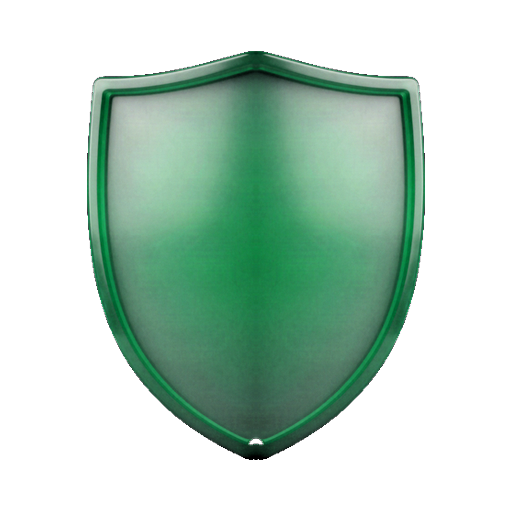
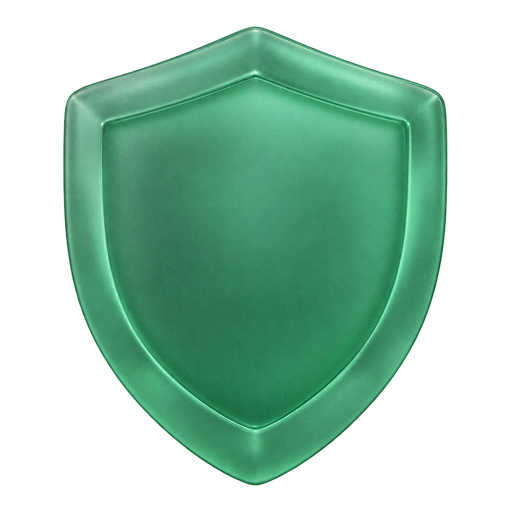
Ikony temat a predmetu: jednotne piskovane sklo, celem, zjednodusene
Sada podle puvodni ikony databaze (Higgsfield, GPT Image 2.5): Python
jako logo Pythonu, matematika +-, chemie banka, hudebni vychova dve
noty, Power BI bez podstavy, mozek z puvodni sady. Velikost predmetu
opticky vyrovnana. Postup a skript v scripts/ikony. V paticce veta,
ze ikony vznikly s pomoci AI. Ikony temat maji spravne sizes pro
tablet a pri omezenem pohybu se pod mysi nezvetsuji.

diff --git a/src/lib/content.ts b/src/lib/content.ts
@@ -1309,6 +1309,8 @@ type Dict = {
     /** Uvozuje odkaz na licenci, proto končí bez tečky. */
     rights: string;
     affiliation: string;
+    /** Přiznání AI u ikon – Karel to učí v hodině 8 grafiky, web to má dodržet. */
+    ikonyAI: string;
     licenseName: string;
     /** Odkaz na text licence – česká i anglická verze mají vlastní „deed“. */
     licenseHref: string;
@@ -1900,6 +1902,7 @@ export const t: Record<Lang, Dict> = {
       // ten rozdíl mezi soukromou stránkou a výstupem školy.
       affiliation:
         "Materiály vznikají a ověřují se ve výuce na Střední průmyslové škole strojní a stavební Tábor.",
+      ikonyAI: "Ikony témat a předmětů vznikly s pomocí AI.",
       licenseName: "CC BY-NC-SA 4.0",
       licenseHref: "https://creativecommons.org/licenses/by-nc-sa/4.0/deed.cs",
       analytics: "Návštěvnost měřím anonymně, bez cookies.",
@@ -2478,6 +2481,7 @@ export const t: Record<Lang, Dict> = {
       rights: "Materials shared under",
       affiliation:
         "The materials are created and classroom-tested at Střední průmyslová škola strojní a stavební Tábor (Secondary Technical School, Tábor, Czechia).",
+      ikonyAI: "The topic and subject icons were made with the help of AI.",
       licenseName: "CC BY-NC-SA 4.0",
       licenseHref: "https://creativecommons.org/licenses/by-nc-sa/4.0/deed.en",
       analytics: "Traffic is measured anonymously, without cookies.",

diff --git a/src/components/ToolGlassIcon.tsx b/src/components/ToolGlassIcon.tsx
@@ -11,8 +11,11 @@ import { TOOL_ICON } from "@/lib/bankLabels";
 export function ToolGlassIcon({
   tool,
   className = "h-full w-full object-contain",
-  hoverClassName = "group-hover:scale-105",
-  sizes = "(min-width: 1024px) 152px, 96px",
+  hoverClassName = "motion-safe:group-hover:scale-105",
+  // Dlaždice: na mobilu 80 px (w-20), od 640 px až 152 px (max-w-[9.5rem]).
+  // Dřív tu bylo „od 1024 px“, takže tablet dostal 96px obrázek do 152px
+  // rámečku (Codex 4. 10. 2026).
+  sizes = "(min-width: 640px) 152px, 80px",
 }: {
   tool: string;
   className?: string;

diff --git a/src/components/Footer.tsx b/src/components/Footer.tsx
@@ -68,6 +68,9 @@ export function Footer() {
           <p className="max-w-[34rem] text-xs text-zinc-600 dark:text-zinc-400">
             {tr.footer.affiliation}
           </p>
+          <p className="text-xs text-zinc-600 dark:text-zinc-400">
+            {tr.footer.ikonyAI}
+          </p>
           {/* Vercel Analytics neukládá cookies ani neidentifikuje návštěvníka,
               takže souhlas nepotřebuje – ale mlčet se o měření nemá. */}
           {/* Odkaz stojí hned za větou o měření: kdo se nad ní pozastaví,

diff --git a/src/components/CrossSubject.tsx b/src/components/CrossSubject.tsx
@@ -215,7 +215,7 @@ function SubjectTile({
           // Ikona se vykresluje v rámečku 56 × 56 px (h-14 w-14); ostrost
           // na Retině si prohlížeč dopočítá z `sizes` sám (Codex 27. 9. 2026).
           sizes="56px"
-            className="h-full w-full object-contain transition duration-300 group-hover:scale-105"
+            className="h-full w-full object-contain transition duration-300 motion-safe:group-hover:scale-105"
           />
         </span>
         <span className="min-w-0 flex-1">

diff --git a/scripts/ikony/normalizuj.py b/scripts/ikony/normalizuj.py
@@ -1,0 +1,39 @@
+"""Ořízne vygenerovanou ikonu na obrys, smaže téměř průhledný šum (alfa < 8)
+a drobné zbytky, a vycentruje ji na plátno 512 × 512 (delší strana 90 %).
+
+Použití: python3 scripts/ikony/normalizuj.py stazena.png public/images/subjects/nazev.png
+Optické vyrovnání (vyrovnej) pak jemně zmenší ikony, které zabírají moc plochy.
+Postup a zadání: scripts/ikony/README.md
+"""
+import sys
+from PIL import Image
+import numpy as np
+from scipy import ndimage
+def normalizuj(src, dst, N=512, podil=0.90):
+    im=np.array(Image.open(src).convert('RGBA')).astype(np.uint8)
+    a=im[:,:,3].copy(); a[a<8]=0
+    lab,k=ndimage.label(a>40)
+    sizes=ndimage.sum(np.ones_like(a),lab,range(1,k+1)); big=max(sizes)
+    keep=np.isin(lab,[i+1 for i,s in enumerate(sizes) if s>big*0.002])
+    keep=ndimage.binary_dilation(keep,iterations=6)
+    im[:,:,3]=np.where(keep,a,0); im[im[:,:,3]==0]=0
+    out=Image.fromarray(im); out=out.crop(out.getbbox())
+    M=int(N*podil); sc=M/max(out.size)
+    out=out.resize((max(1,round(out.width*sc)),max(1,round(out.height*sc))),Image.LANCZOS)
+    c=Image.new('RGBA',(N,N),(0,0,0,0)); c.alpha_composite(out,((N-out.width)//2,(N-out.height)//2))
+    c.save(dst,optimize=True)
+def vyrovnej(soubory, cil):
+    """Poloviční korekce plochy: ikona s plochou nad `cil` se zmenší na (cil/plocha)^0,25.
+    Zvětšovat nejde (delší strana už je na maximu). Předměty cil 0.40, témata 0.55."""
+    for p in soubory:
+        im=Image.open(p).convert('RGBA'); a=np.array(im)[:,:,3]
+        k=min(1.0,(cil/(a>128).mean())**0.25)
+        if k>0.99: continue
+        obj=im.crop(im.getbbox())
+        obj=obj.resize((round(obj.width*k),round(obj.height*k)),Image.LANCZOS)
+        c=Image.new('RGBA',im.size,(0,0,0,0)); c.alpha_composite(obj,((im.width-obj.width)//2,(im.height-obj.height)//2))
+        c.save(p,optimize=True)
+
+if __name__=='__main__':
+    normalizuj(sys.argv[1], sys.argv[2])
+    vyrovnej([sys.argv[2]], 0.40 if '/subjects/' in sys.argv[2] else 0.55)

diff --git a/scripts/ikony/README.md b/scripts/ikony/README.md
@@ -1,0 +1,51 @@
+# Ikony témat a předmětů
+
+Ikony témat leží v `public/images/tools/glass/` (seznam v `TOOL_ICON`,
+src/lib/bankLabels.ts), ikony předmětů v `public/images/subjects/`
+(`icon` v src/lib/content.ts). Kreslí se v 80–152 px (témata) a 56 px
+(předměty), proto **hodnoť je vždy v téhle velikosti na skutečném webu**,
+ve světlém i tmavém režimu, ne zvětšené.
+
+## Styl (Karel, 4. 10. 2026)
+
+- Matné pískované smaragdové sklo, realistický materiál, čelem k uživateli
+  (jen nepatrně shora), průhledné pozadí, žádná záře ani opar.
+- **Tvar zjednodušený**: pár velkých hladkých tvarů, žádné drobné detaily
+  (okna, šupiny, závity). Karlovi byl realistický dům a had „moc realistický“,
+  zjednodušený mozek zase „moc jednoduchý“ – mozek zůstal z původní sady.
+- Předloha stylu = původní ikona databáze (`databaze.png`). Nová ikona
+  vzniká s ní jako referencí, jinak do sady nesedne.
+- Motivy: databáze = válce, Python = logo Pythonu (dva hadi, dva odstíny
+  zelené), Power BI = tři sloupce bez podstavy, matematika = ±,
+  chemie = baňka, hudební výchova = dvě noty, strojírenství = ozubené kolo,
+  Excel = list s ohnutým rohem a mřížkou (ladí s Wordem), grafika = paleta
+  se štětcem.
+  Motiv neměň bez Karlova souhlasu; dvě varianty ukaž vedle sebe.
+
+## Výroba (Higgsfield, GPT Image 2.5)
+
+1. Nahraj `public/images/tools/glass/databaze.png` jako referenci
+   (Higgsfield `media_upload`; na Karlově účtu už je jako
+   media_id `66a9bde4-d5de-48b8-80e7-2b295b65a8ba`).
+2. `generate_image`: model `gpt_image_2_5`, `quality: high`,
+   `resolution: 1k`, `aspect_ratio: 1:1`, `background: transparent`,
+   `medias: [{role: image_references, value: <media_id>}]` – 1,5 kreditu.
+   Souběžně projdou asi 4 úlohy, další vrátí 429 (nic se nezaplatí).
+3. Zadání (doplň předmět):
+
+   > A single simplified 3D icon of <PŘEDMĚT, popis tvaru bez detailů>.
+   > Bold, clean silhouette made of a few large smooth shapes, readable even
+   > at 56 pixels. Match the reference image's material exactly: the same
+   > realistic frosted sandblasted emerald-green glass with soft translucency,
+   > the same color, the same soft studio lighting and subtle highlights. Do
+   > not copy its stacked-cylinder shape. View: facing the viewer straight
+   > from the front, with only a very slight view from above like the
+   > reference. Object centered, filling about 72% of the frame. No outer
+   > glow, no halo, no haze. No text, no letters, no numbers, no logos, no
+   > floor, no cast shadow, fully transparent background.
+
+4. `python3 scripts/ikony/normalizuj.py stazena.png public/images/…/nazev.png`
+   (ořez, vyčištění, 512 × 512, optické vyrovnání plochy).
+5. Zkontroluj na webu v 56/80/152 px ve světlém i tmavém režimu a ukaž Karlovi.
+
+V patičce je věta, že ikony vznikly s pomocí AI (`footer.ikonyAI`).

diff --git a/CLAUDE.md b/CLAUDE.md
@@ -247,6 +247,21 @@ blokuje. Bonus pro rychlíky, uvedeno v plánu hodiny 6.
   `a:defRPr` do `a:rPr` (jinak malé nadpisy). Pod snímkem rozbalovací
   poznámky. Když selže, zůstane starý textový náhled (`PptxTextView`).
 
+### Ikony témat a předmětů (4. 10. 2026)
+- Nová jednotná sada z Higgsfieldu: matné pískované smaragdové sklo podle
+  původní ikony databáze, čelem, zjednodušené tvary (čitelné v 56 px).
+  Mozek u umělé inteligence je z původní sady (Karel). Python = logo Pythonu
+  ve dvou odstínech zelené, matematika ±, chemie baňka, hudební výchova dvě
+  noty, strojírenství ozubené kolo, Power BI sloupce bez podstavy.
+- **Postup, zadání a skript: scripts/ikony/README.md** (`normalizuj.py`
+  ořízne, vyčistí a opticky vyrovná). Novou ikonu dělej jen tak, motiv
+  neměň bez Karla a ukaž mu varianty ve skutečné velikosti na webu.
+- V patičce věta „Ikony … vznikly s pomocí AI“ (`footer.ikonyAI`).
+- Po výměně PNG pod stejným jménem drží lokální server staré ikony –
+  smazat `.next/cache/images` a `.next/dev/cache/images`. Produkce ikony
+  posílá s `max-age=0`, tam to nehrozí.
+- Ikony jsou do listopadu zmrazené (rada 29. 9.: nic nestavět).
+
 ## Otevřené / nápady (nic naléhavého)
 
 - Karel si může projít PDF náhledy plánů a listů hodin 1, 4, 6 (vyexportované
